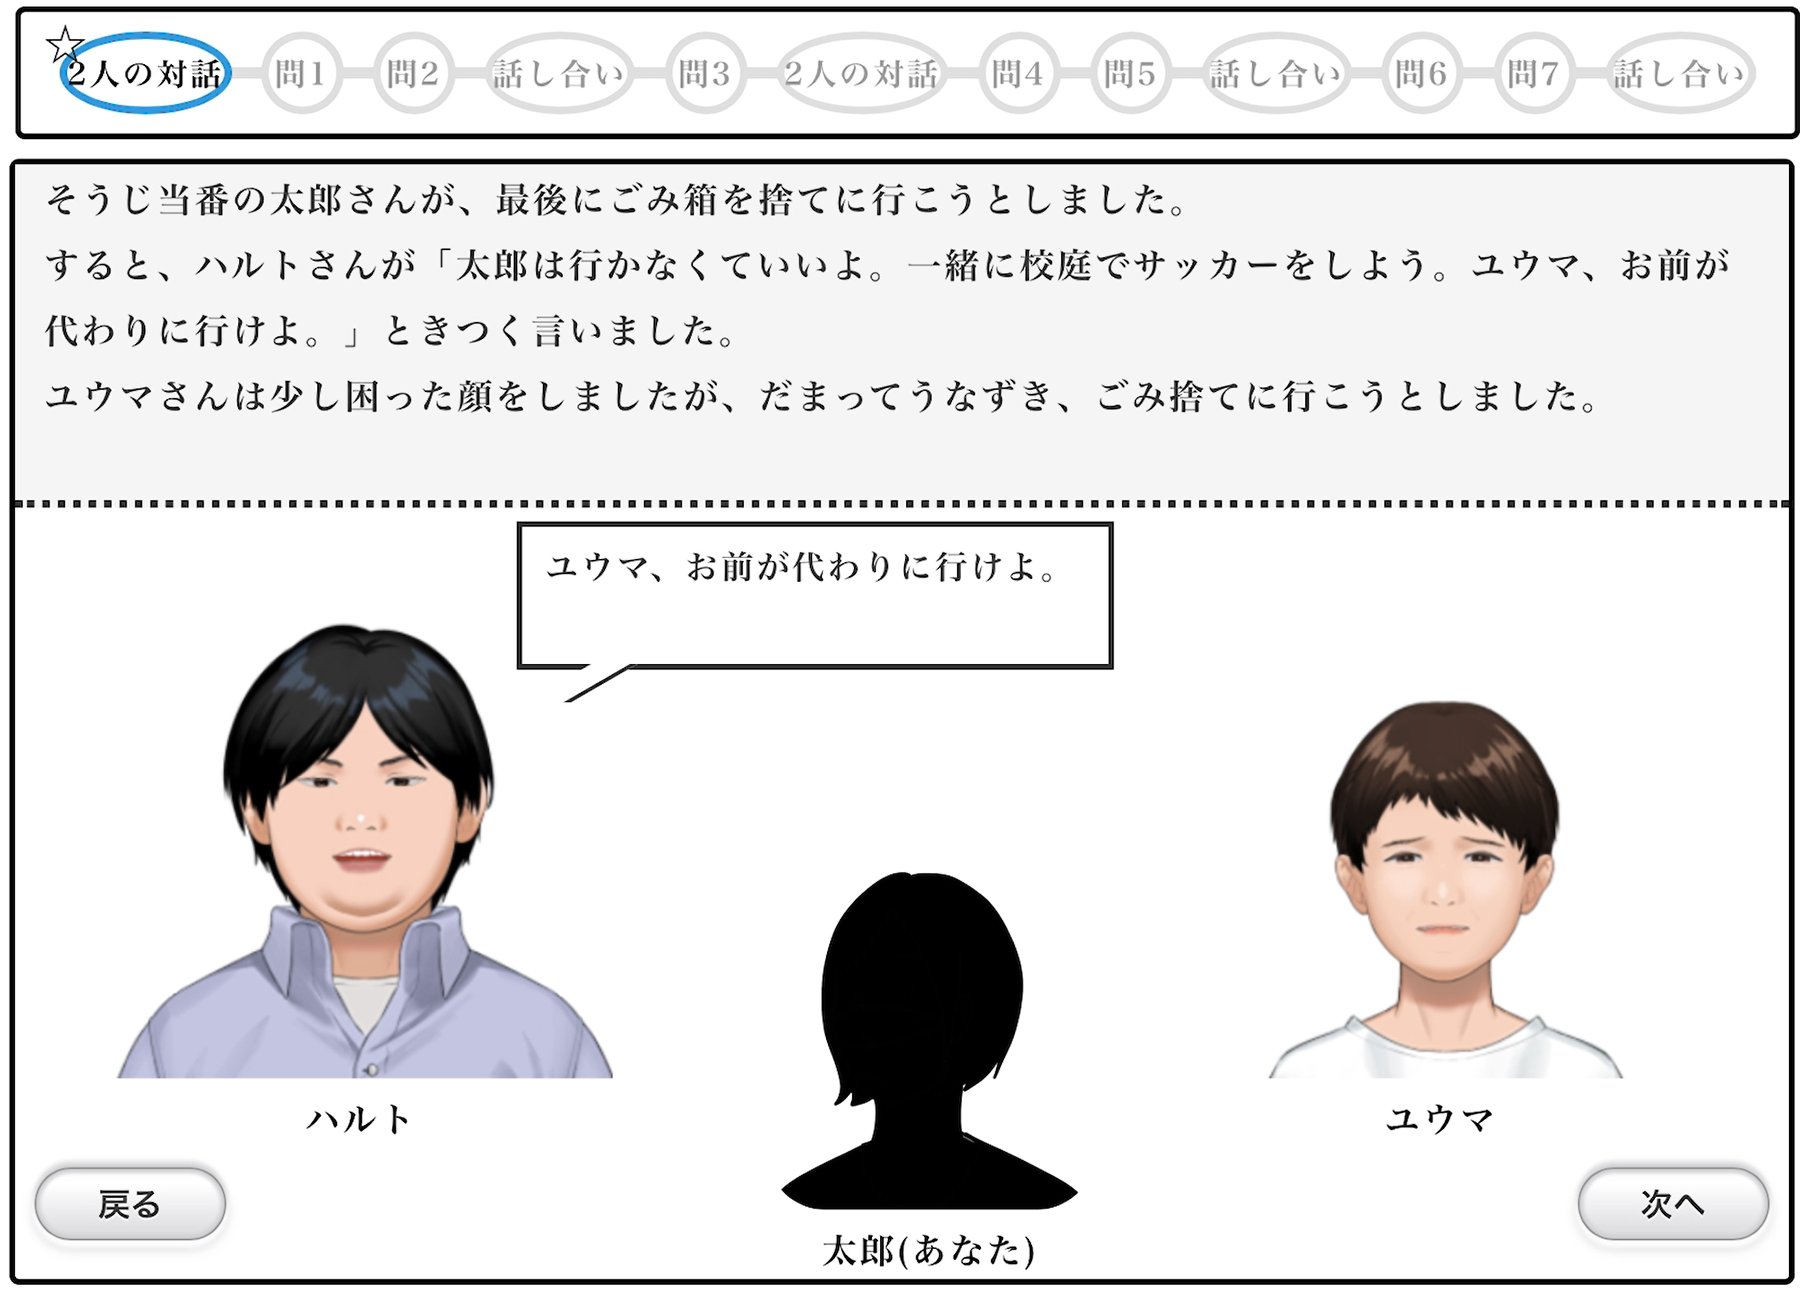
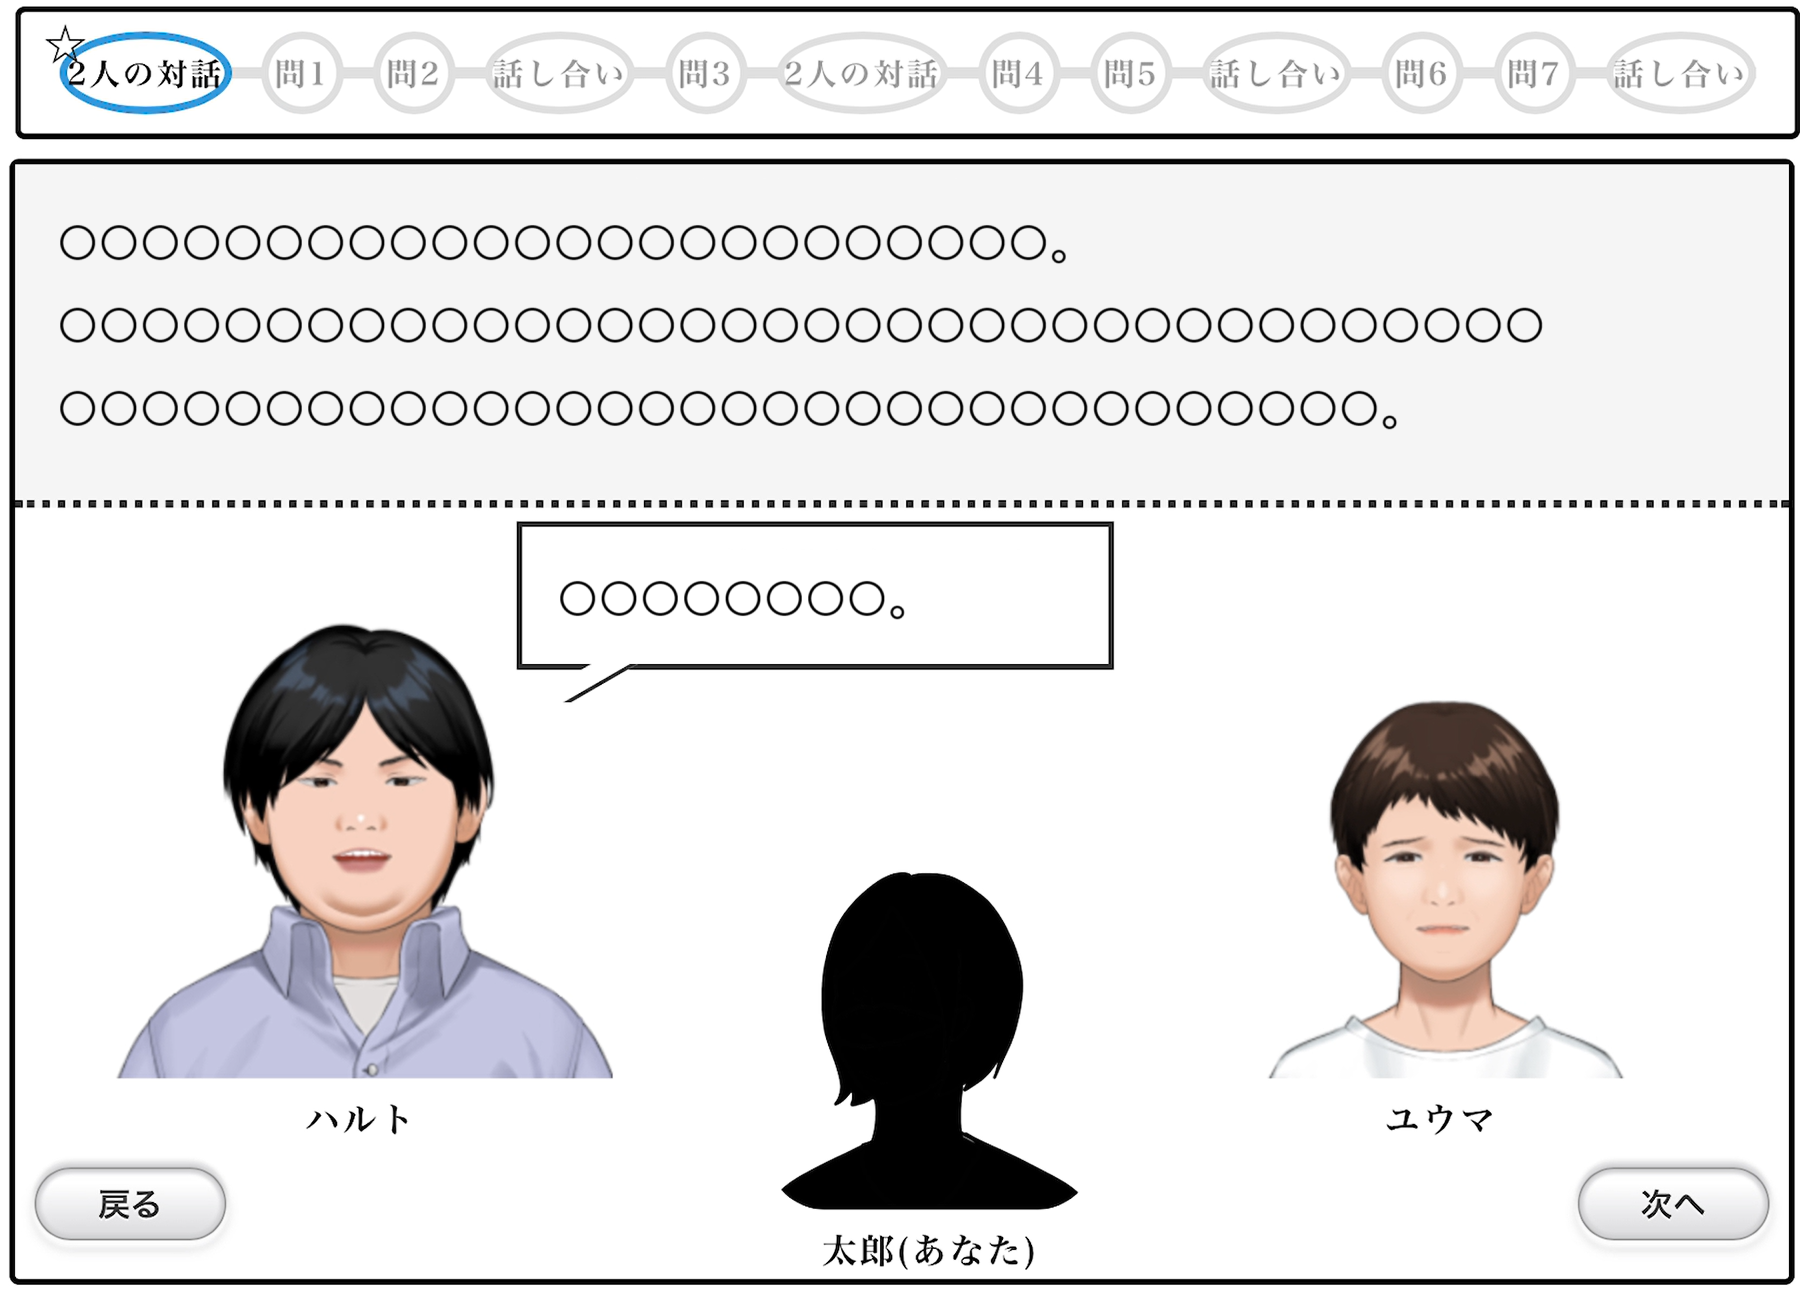
修正2

diff --git a/index.html b/index.html
@@ -188,11 +188,17 @@
                     <div class="project-content">
                         <div class="project-image-container">
                             <img src="web1.png" alt="教育支援Webアプリケーション" class="project-image">
-                            <p class="image-description">開発した教育支援Webアプリケーション。</p>
+                            <p class="image-description">
+                                開発した教育支援Webアプリケーション。<br>
+                                ※ ○○の部分は本来文章が表示されている。
+                            </p>
                         </div>
                         <div class="project-image-container">
                             <img src="web2.png" alt="教育支援Webアプリケーション" class="project-image">
-                            <p class="image-description">生徒の回答に基づいて最適化された問いかけを行うインターフェース。</p>
+                            <p class="image-description">
+                                生徒の回答に基づいて最適化された問いかけを行うインターフェース。<br>
+                                ※ ○○の部分は本来文章が表示されている。
+                            </p>
                         </div>
 
                         <h3>概要</h3>
